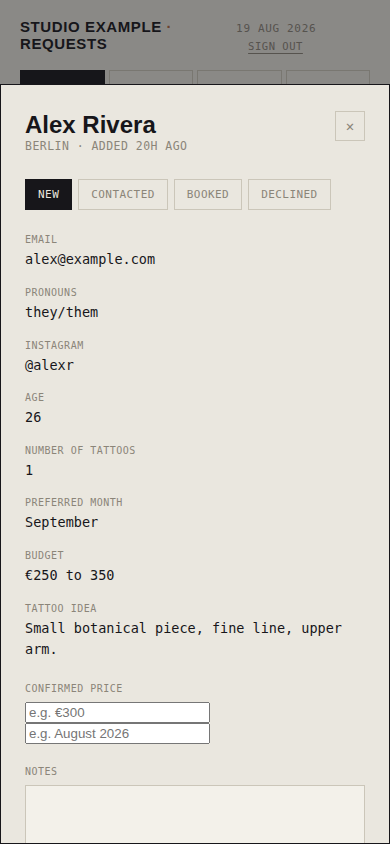
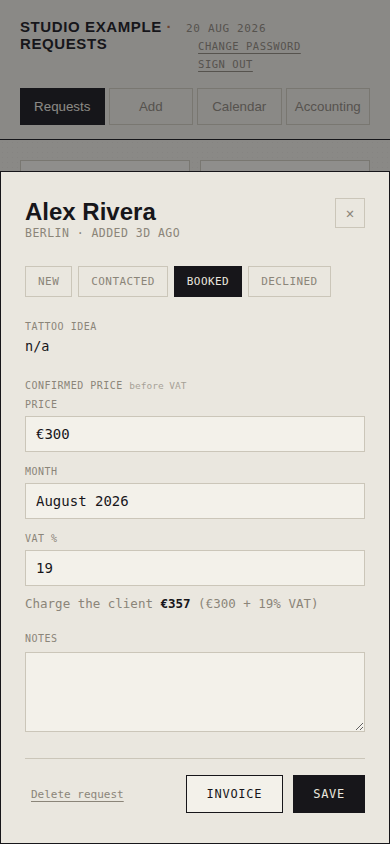
Add files via upload

diff --git a/index.html b/index.html
@@ -318,7 +318,12 @@
       <div class="feature">
         <div class="k">Your numbers</div>
         <h3>Know what you made, privately</h3>
-        <p>Add a confirmed price to any booking and see it totalled up by month. Lock the whole tab behind your own PIN, so it's just for you, not whoever's helping out that day. Set your tax and VAT rates once and it works out roughly what to put aside as you go.</p>
+        <p>Add a confirmed price to any booking and see it totalled up by month, the full amount, VAT included. Lock the whole tab behind your own PIN, so it's just for you, not whoever's helping out that day. Set your income tax and VAT rates once and it works out roughly what to put aside as you go.</p>
+      </div>
+      <div class="feature">
+        <div class="k">Your invoices</div>
+        <h3>A proper invoice, one click away</h3>
+        <p>Add VAT per booking and Glød works out what to actually charge, before you even send the quote. Generate a clean invoice with the breakdown already done, then print it or save straight to PDF.</p>
       </div>
       <div class="feature">
         <div class="k">Your phone</div>
@@ -334,6 +339,16 @@
         <div class="k">Your data</div>
         <h3>Only ever yours</h3>
         <p>Signed in as you, seeing only your requests. If another artist joins later, your data stays fully separate from theirs.</p>
+      </div>
+      <div class="feature">
+        <div class="k">Your team</div>
+        <h3>Bring on a second artist safely</h3>
+        <p>Give a new artist a starter login and they're asked to set their own password the moment they sign in. From there, their bookings and their numbers stay just as separate as yours.</p>
+      </div>
+      <div class="feature">
+        <div class="k">Your cities</div>
+        <h3>One form, every city you visit</h3>
+        <p>List every city you take bookings in, home base or guest spot, and clients just pick from a dropdown. One shared form instead of a different one for each stop.</p>
       </div>
     </div>
   </div>
@@ -366,6 +381,13 @@
           <img src="screenshot-accounting.png" alt="Accounting">
         </div>
         <div class="preview-label">What you made, by month</div>
+      </div>
+      <div class="preview-card">
+        <div class="preview-frame">
+          <div class="bar"><span></span><span></span><span></span></div>
+          <img src="screenshot-invoice.png" alt="Invoice">
+        </div>
+        <div class="preview-label">Invoice, ready to send</div>
       </div>
     </div>
   </div>
